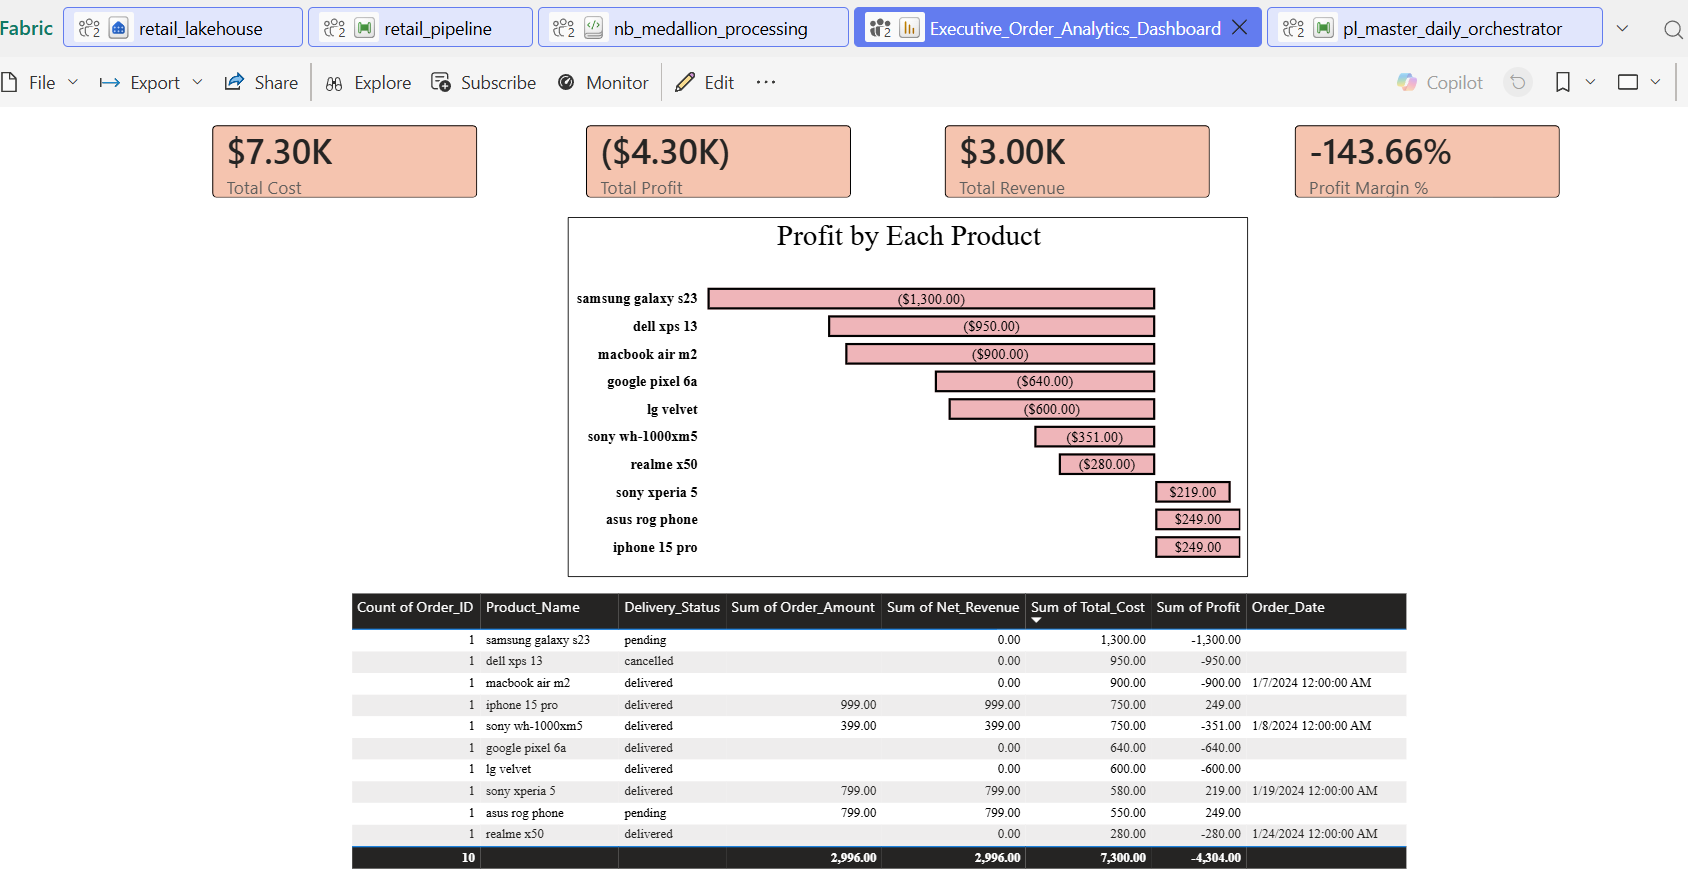
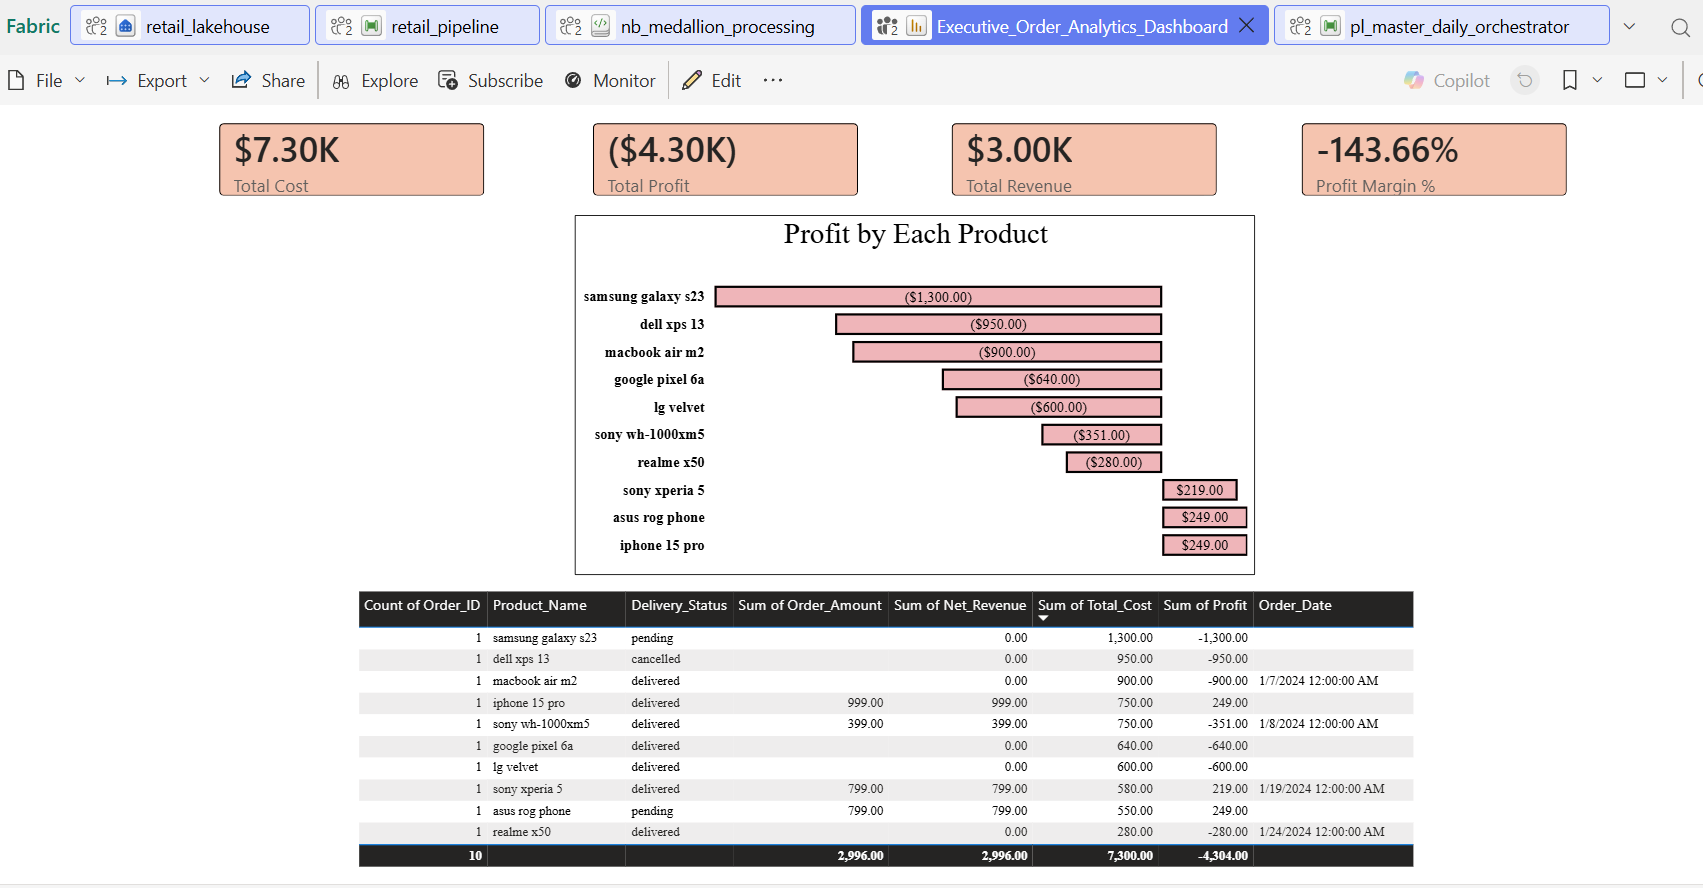
deleted wrong filename file

diff --git a/README.md b/README.md
@@ -64,9 +64,9 @@ Joins Silver tables to derive financial metrics and executes inline data quality
   Profit = Net_Revenue - Total_Cost
 - **Quality Checks:** Runs explicit PySpark `assert` statements validating expected row counts, primary key integrity (`Order_ID IS NOT NULL`), missing financial values, and profit math consistency.
 
-## Power BI Executive Dashboard
+### Power BI Executive Dashboard
 
-![Executive Order Analytics Dashboard](ws-nz-retail-dev/screenshots/powerbi_dashboard.png)
+![Executive Order Analytics Dashboard](ws-nz-retail-dev/screenshots/power_bi.dashboard.png)
 
 ### Step 4: Executive Reporting & Visual Analytics(`Executive_Order_Analytics_Dashboard`)
 
